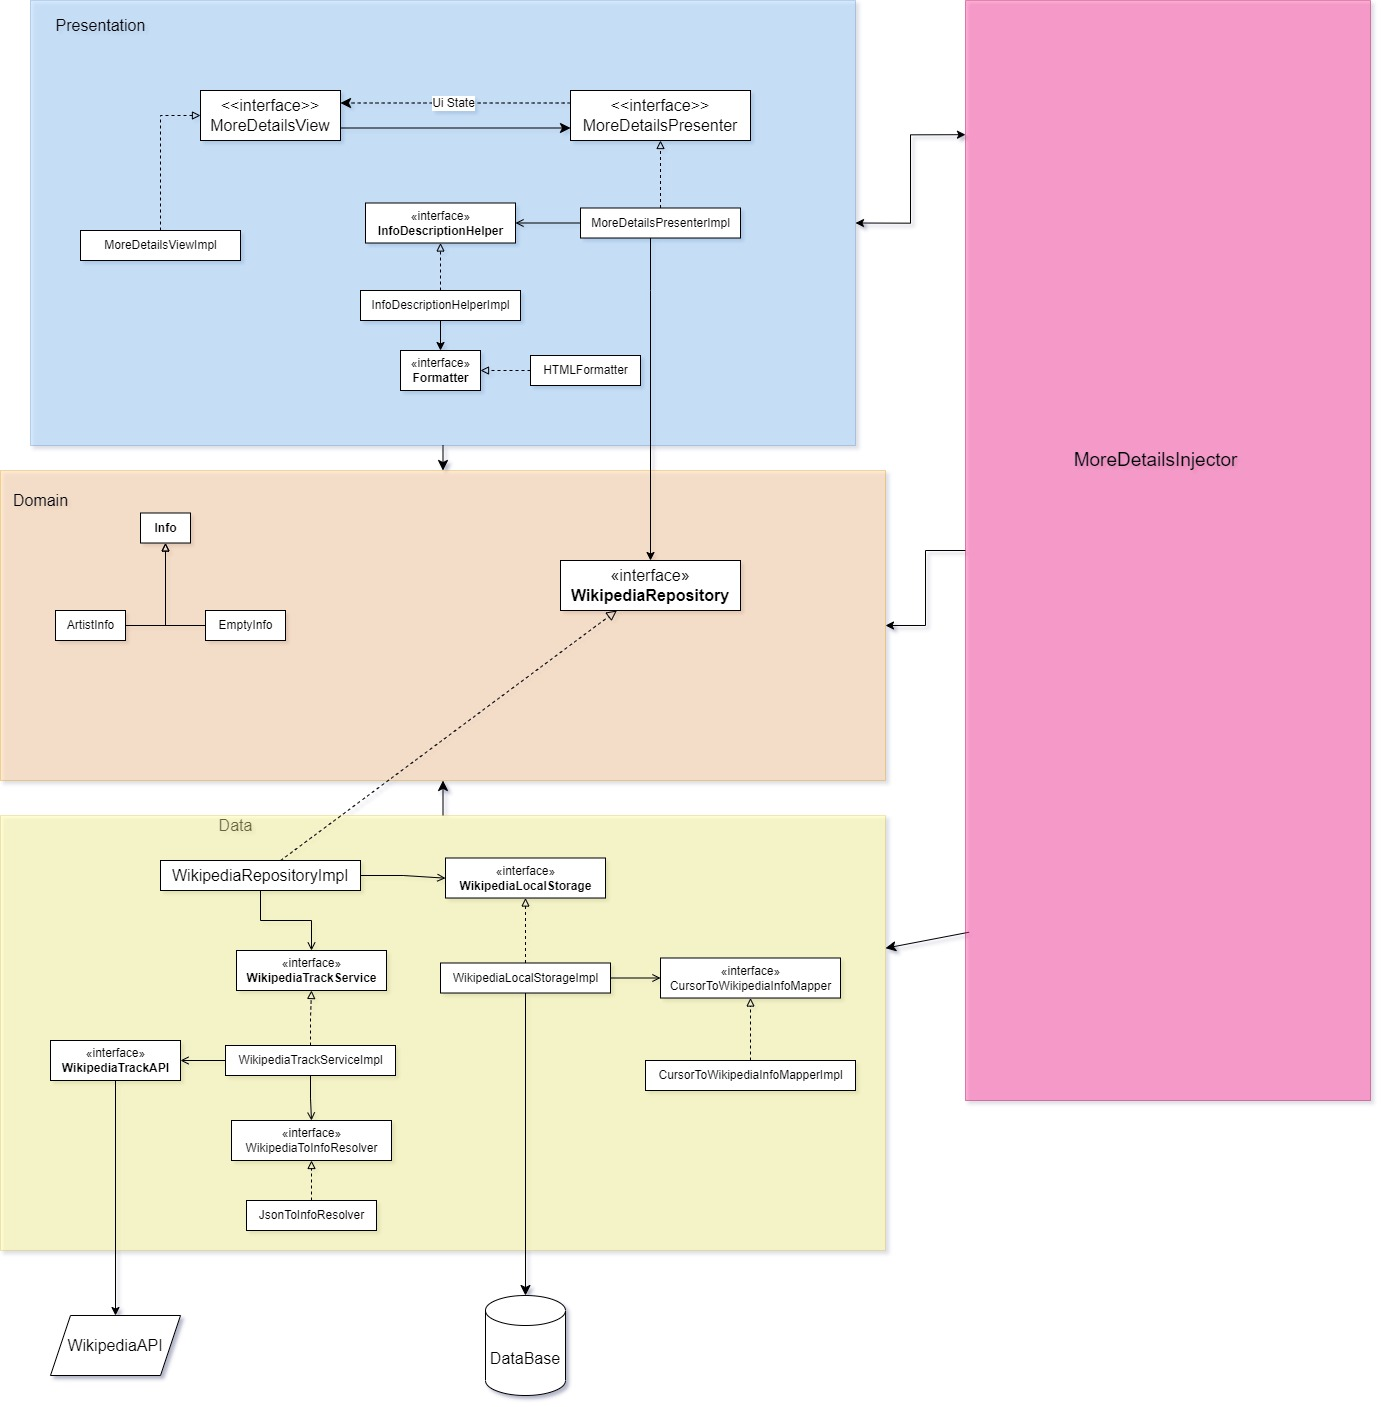
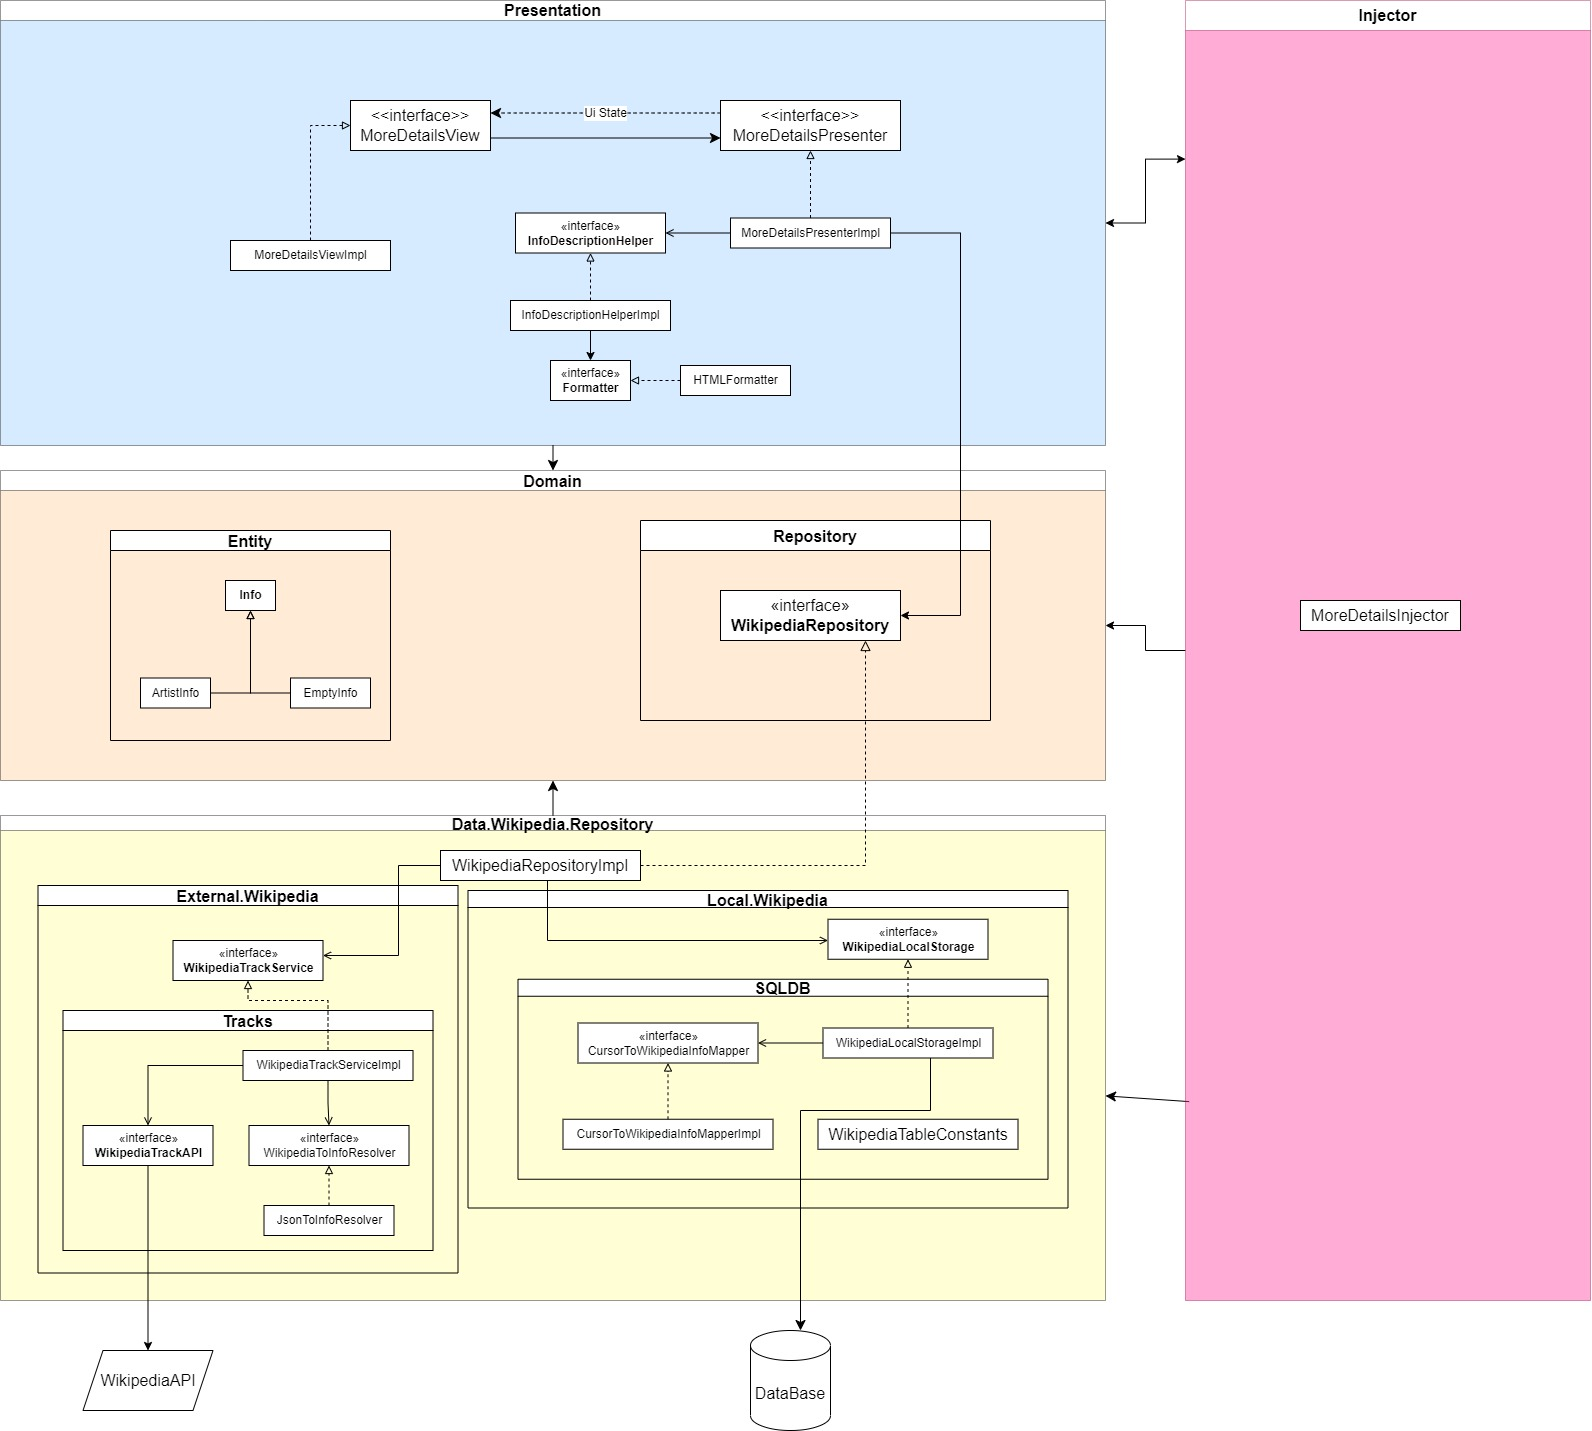
Nuevo diagrama + Renaming + Indentación

diff --git a/app/src/main/java/ayds/winchester/songinfo/moredetails/presentation/MoreDetailsPresenter.kt b/app/src/main/java/ayds/winchester/songinfo/moredetails/presentation/MoreDetailsPresenter.kt
@@ -11,18 +11,21 @@ interface MoreDetailsPresenter {
     fun createThread(artistName: String)
 }
 
-internal class MoreDetailsPresenterImpl(private val wikipediaRepository: WikipediaRepository, private val infoDescriptionHelper: InfoDescriptionHelper): MoreDetailsPresenter{
+internal class MoreDetailsPresenterImpl(
+    private val wikipediaRepository: WikipediaRepository,
+    private val infoDescriptionHelper: InfoDescriptionHelper
+) : MoreDetailsPresenter {
 
     private val onActionSubject = Subject<MoreDetailsUiState>()
     override val uiStateObservable = onActionSubject
 
-    override fun createThread(artistName: String){
+    override fun createThread(artistName: String) {
         Thread {
             getArtistInfo(artistName)
         }.start()
     }
 
-    private fun getArtistInfo(artistName: String){
+    private fun getArtistInfo(artistName: String) {
         when (val artistInfo = wikipediaRepository.getInfo(artistName)) {
             is ArtistInfo ->
                 uiStateObservable.notify(buildUiStateArtistInfo(artistInfo, artistName))

diff --git a/app/src/main/java/ayds/winchester/songinfo/moredetails/presentation/MoreDetailsView.kt b/app/src/main/java/ayds/winchester/songinfo/moredetails/presentation/MoreDetailsView.kt
@@ -26,7 +26,7 @@ class MoreDetailsViewImpl: AppCompatActivity(), MoreDetailsView{
     private lateinit var moreDetailsPresenter: MoreDetailsPresenter
     private val observer: Observer<MoreDetailsUiState> =
         Observer {
-                value -> updateState(value)
+                value -> updateView(value)
         }
 
     companion object {
@@ -60,7 +60,7 @@ class MoreDetailsViewImpl: AppCompatActivity(), MoreDetailsView{
         moreDetailsPresenter.uiStateObservable.subscribe(observer)
     }
 
-    private fun updateState(uiState: MoreDetailsUiState){
+    private fun updateView(uiState: MoreDetailsUiState){
         loadWikipediaLogo(uiState.wikipediaDefaultImage)
         setArtistDescription(uiState.artistInfoDescription)
         setUrl(uiState.artistInfoUrl)
